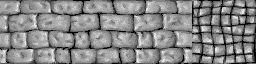
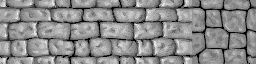
lighting tweaked a bit

diff --git a/index.html b/index.html
@@ -1,6 +1,9 @@
 <html><head>
     <title>WebGL Dungeon</title>
     <meta http-equiv="Content-Type" content="text/html; charset=UTF-8">
+    <META HTTP-EQUIV="Pragma" CONTENT="no-cache">
+    <META HTTP-EQUIV="Expires" CONTENT="-1">
+
     <link rel="stylesheet" href="webgl.css" type="text/css">
     <script type="text/javascript" src="jquery-1.6.1.js"></script>
     <script src="sylvester.js" type="text/javascript"></script>
@@ -107,7 +110,7 @@
                 vTextureCoord.x = vTextureCoord.x-sign(a.y)*0.25;
             }
         } else {
-            vTextureCoord.x = vTextureCoord.x;
+            vTextureCoord.x = vTextureCoord.x+0.5;
         }
         vTextureCoord.y = aTextureCoord.y;
 
@@ -159,7 +162,8 @@
         //vec4 light = texture2D(uSamplerLightmap, lightmapPosition);
         vec4 light = getLight();
         vec4 texelColor = texture2D(uSampler, vec2(vTextureCoord.s, vTextureCoord.t));
-        gl_FragColor = vec4(texelColor.rgb*light.rgb*(surfaceCosine*0.5+0.5), texelColor.a);
+        gl_FragColor = vec4(texelColor.rgb*light.rgb*(surfaceCosine*0.3+0.7), texelColor.a);
+        //gl_FragColor = vec4(texelColor.rgb*light.rgb, texelColor.a);
         //gl_FragColor = vec4(vec3(1.0, 1.0, 1.0)*light.rgb*(surfaceCosine*0.5+0.5), texelColor.a);
 
       }
